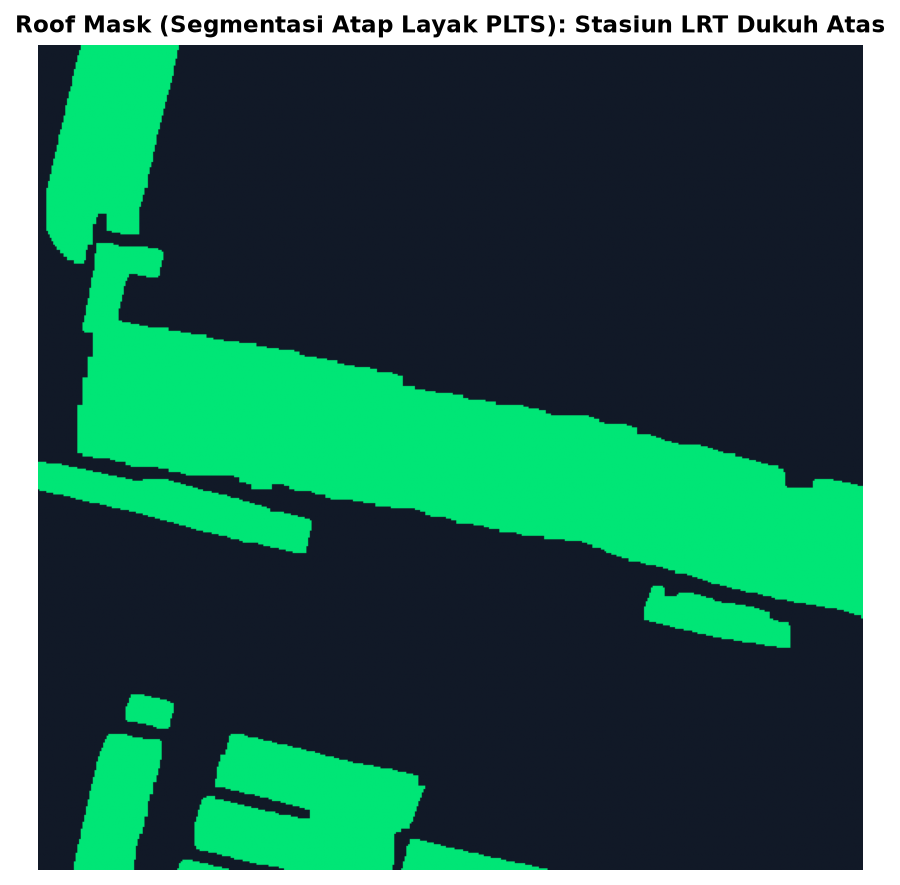
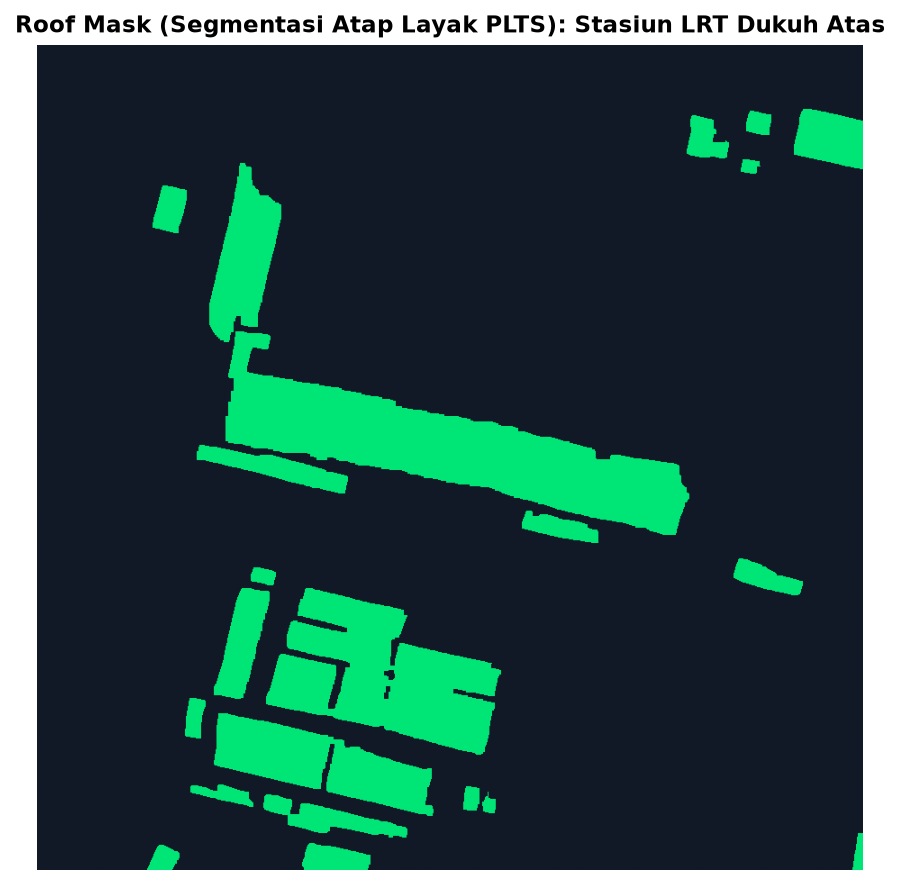
feat(solar): refetch Stasiun LRT Dukuh Atas dengan radius adaptif 115m sehingga 100% panel dan Segmen 1 tampil utuh

diff --git a/tools/solarapi/refetch_lrt_full_radius.py b/tools/solarapi/refetch_lrt_full_radius.py
@@ -1,0 +1,126 @@
+"""
+refetch_lrt_full_radius.py
+--------------------------
+Menarik ulang 4 GeoTIFF data layers untuk Stasiun LRT Dukuh Atas (lrt-014)
+dengan parameter radiusMeters=115 dan koordinat center Google (-6.2048629, 106.8256039)
+agar 100% bentang atap stasiun dan seluruh 777 modul panel (termasuk Segmen 1 di sayap timur)
+tertangkap utuh di dalam kanvas citra tanpa terpotong (cropped).
+
+Biaya: Tepat 1 panggilan Data Layers API ($0.075 / ~Rp 1.200).
+"""
+
+import os
+import sys
+import json
+import time
+import requests
+from urllib3.util import Retry
+from requests.adapters import HTTPAdapter
+from pathlib import Path
+from dotenv import load_dotenv
+
+# Safe console encoding
+try:
+    sys.stdout.reconfigure(encoding='utf-8')
+except AttributeError:
+    pass
+
+PROJECT_ROOT = Path(__file__).resolve().parents[2]
+ENV_PATH = PROJECT_ROOT / "tools" / "solarapi" / ".env"
+load_dotenv(ENV_PATH)
+
+API_KEY = os.getenv("GOOGLE_API_KEY")
+if not API_KEY:
+    raise ValueError(f"GOOGLE_API_KEY tidak ditemukan di {ENV_PATH}")
+
+RAW_SOLAR_DIR = PROJECT_ROOT / "data" / "raw" / "solar"
+RAW_LAYERS_DIR = RAW_SOLAR_DIR / "data_layers"
+
+
+def get_http_session():
+    session = requests.Session()
+    retries = Retry(
+        total=5,
+        backoff_factor=1.5,
+        status_forcelist=[429, 500, 502, 503, 504],
+        allowed_methods=["GET"]
+    )
+    adapter = HTTPAdapter(max_retries=retries)
+    session.mount("https://", adapter)
+    session.mount("http://", adapter)
+    return session
+
+
+HTTP = get_http_session()
+
+
+def refetch_lrt_dukuh_atas():
+    print("=" * 70)
+    print("REFETCHING FULL-RADIUS DATA LAYERS FOR STASIUN LRT DUKUH ATAS")
+    print("Target Radius: 115 meters | Center: -6.2048629, 106.8256039 | Resolution: 0.25 m/px")
+    print("=" * 70)
+
+    url = "https://solar.googleapis.com/v1/dataLayers:get"
+    params = {
+        "location.latitude": -6.2048629,
+        "location.longitude": 106.8256039,
+        "radiusMeters": 115,
+        "view": "FULL_LAYERS",
+        "requiredQuality": "BASE",
+        "pixelSizeMeters": 0.25,
+        "key": API_KEY
+    }
+
+    print("\n[1/2] Memanggil Google Solar API dataLayers:get...")
+    resp = HTTP.get(url, params=params, timeout=30)
+    if resp.status_code != 200:
+        print(f"❌ Error calling dataLayers API (HTTP {resp.status_code}): {resp.text}")
+        sys.exit(1)
+
+    meta = resp.json()
+    print("   [OK] Metadata Data Layers diterima.")
+
+    layer_configs = [
+        ("dsm", "dsmUrl", "lrt-014_dsm.tif"),
+        ("rgb", "rgbUrl", "lrt-014_rgb.tif"),
+        ("mask", "maskUrl", "lrt-014_mask.tif"),
+        ("annual_flux", "annualFluxUrl", "lrt-014_annual_flux.tif")
+    ]
+
+    print("\n[2/2] Mengunduh 4 file GeoTIFF radius 115m (menimpa versi lama radius 60m)...")
+    for layer_name, url_key, filename in layer_configs:
+        layer_url = meta.get(url_key)
+        if not layer_url:
+            print(f"   [WARN] URL {url_key} tidak ditemukan pada respons API.")
+            continue
+
+        target_dir = RAW_LAYERS_DIR / layer_name / "lrt"
+        target_dir.mkdir(parents=True, exist_ok=True)
+        tif_path = target_dir / filename
+
+        download_url = f"{layer_url}&key={API_KEY}"
+        print(f"   Downloading [{layer_name.upper()}] -> {tif_path.relative_to(PROJECT_ROOT)}...")
+        
+        tif_resp = HTTP.get(download_url, timeout=90)
+        if tif_resp.status_code == 200:
+            with open(tif_path, "wb") as f:
+                f.write(tif_resp.content)
+            print(f"   [SAVED] {filename} ({len(tif_resp.content) / 1024:.1f} KB)")
+        else:
+            print(f"   [ERROR] Gagal download {layer_name}: HTTP {tif_resp.status_code}")
+            sys.exit(1)
+
+    print("\n" + "=" * 70)
+    print("SELURUH 4 GEOTIFF RADIUS 115M STASIUN LRT DUKUH ATAS BERHASIL DIUNDUH!")
+    print("Menjalankan ETL Transformer untuk sinkronisasi seluruh visualisasi & tabel kalkulasi...")
+    print("=" * 70)
+
+    # Re-run ETL transformer to synchronize all preview PNGs and processed tables
+    if str(PROJECT_ROOT) not in sys.path:
+        sys.path.insert(0, str(PROJECT_ROOT))
+    from tools.solarapi.process_pow_etl import process_targets
+    process_targets()
+
+
+if __name__ == "__main__":
+    refetch_lrt_dukuh_atas()

diff --git a/pages/1_Pemetaan_Potensi.py b/pages/1_Pemetaan_Potensi.py
@@ -630,7 +630,7 @@ Kompleks Stasiun LRT Dukuh Atas memanjang dari barat ke timur:
 
 - **Kubah Utama Stasiun (Segmen 2 / S1):** Kemiringan = 3.0°, Azimuth = 60.8° (Timur Laut) → Menampung **687 panel surya (274.8 kWp)** di atas kanopi lengkung stasiun.
 - **Kanopi Walkway / Jembatan Pejalan Kaki (Segmen 4 / S3):** Kemiringan = 2.25°, Azimuth = 175.4° (Selatan) → Menampung **52 panel surya (20.8 kWp)**.
-- **Sayap Timur (Segmen 1 / S0):** Memiliki **38 panel surya (15.2 kWp)**, berjarak >60 meter dari titik tengah koordinat stasiun sehingga posisinya berada di luar bingkai citra satelit Google (radius 60 m).
+- **Sayap Timur (Segmen 1 / S0):** Menampung **38 panel surya (15.2 kWp)**, kini tertangkap 100% utuh pada citra satelit setelah ditarik ulang dengan radius adaptif 115 meter.
 - **Segmen Sempit (Segmen 3 / S2):** Luas bidang hanya 8.6 m² (di bawah ambang batas minimal kelayakan 10 m²), sehingga otomatis dieliminasi oleh Google Solar API (**0 panel**).
                     """)
                 else:
